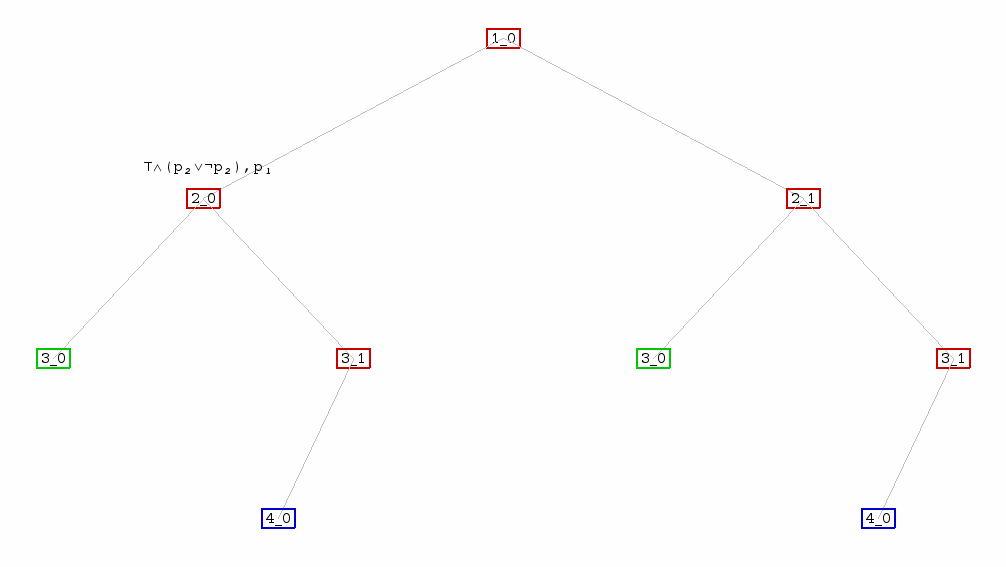
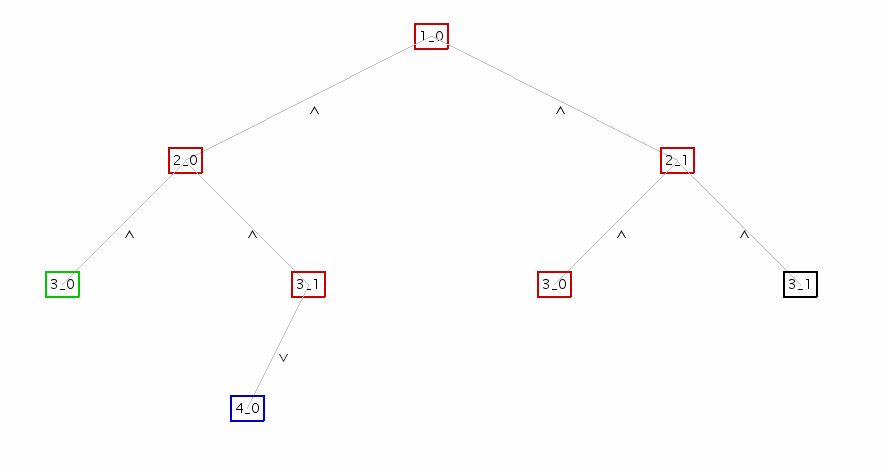
Changed Readme, updated image.

diff --git a/README.md b/README.md
@@ -93,7 +93,7 @@ You can use functions like nnf, cnf or pedantic directly in the middle of a form
 
     C = cnf(A) OR NOT nnf(NOT B OR p0)
 
-There are many other formulas which (instead of a formula) will give you an explicit result like a boolean value, a integer or a drawn tree. 
+There are many other functions which (instead of a formula) will give you an explicit result like a boolean value, an integer or a drawn tree. 
 For a simple satisfiability test, use
 
     sat(A)
@@ -163,7 +163,7 @@ where A, B and C are metavariables or formulas, entered directly. The system wil
 
 By clicking on a node, you can see which sequence the node is representing.
 
-The color of each node represents wether the underlying sequence is an axiom or not:
+The color of each node represents whether the underlying sequence is an axiom or not:
  * **red**: chain is not an axiom
  * **blue**: chain is the *identity*-axiom of PSC
  * **green**: chain is the *true*-axiom of PSC
